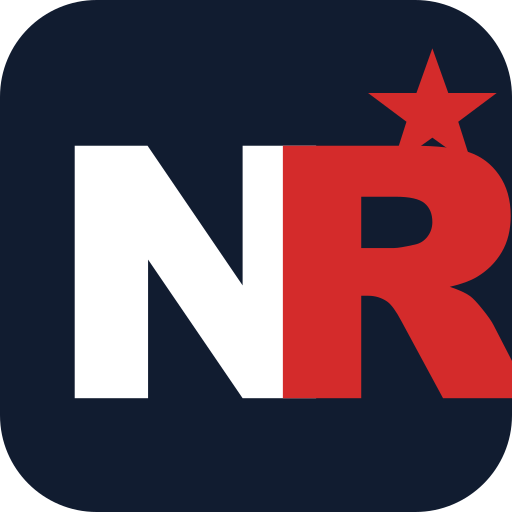
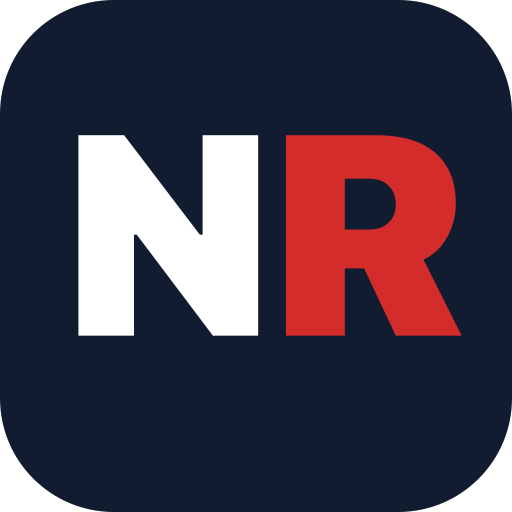
Improve mobile branding and add time-range analytics
- Replace gradient "NewsRoom" text with NR monogram on mobile dashboard
- Fix off-center app icon with proper centering and Apple-style design
- Add /api/analytics/top-articles endpoint with time-range filtering
- Update analytics page to show trailing 12h traffic by default
- Add 12H/Day/Week/Month time selector

diff --git a/src/app/analytics/page.tsx b/src/app/analytics/page.tsx
@@ -37,7 +37,7 @@ interface OverviewStats {
 export default function AnalyticsPage() {
   const { data: session } = useSession();
   const router = useRouter();
-  const [dateRange, setDateRange] = useState<'7d' | '30d' | '90d' | 'all'>('30d');
+  const [period, setPeriod] = useState<'12h' | '24h' | '7d' | '30d'>('12h');
   const [articles, setArticles] = useState<ArticleStats[]>([]);
   const [overview, setOverview] = useState<OverviewStats | null>(null);
   const [isLoading, setIsLoading] = useState(true);
@@ -48,38 +48,42 @@ export default function AnalyticsPage() {
     const fetchData = async () => {
       setIsLoading(true);
       try {
-        // Fetch published articles
-        const res = await fetch('/api/articles?status=PUBLISHED&limit=100&sortBy=pageviews');
+        // Fetch top articles for the selected time period
+        const res = await fetch(`/api/analytics/top-articles?period=${period}`);
         const data = await res.json();
-        const publishedArticles = data.articles || [];
 
-        // Calculate overview stats
+        const topArticles = data.articles || [];
+
+        // Set overview stats from the API response
         const stats: OverviewStats = {
-          totalArticles: publishedArticles.length,
-          totalPageviews: publishedArticles.reduce((sum: number, a: ArticleStats) => sum + (a.totalPageviews || 0), 0),
-          totalVisitors: publishedArticles.reduce((sum: number, a: ArticleStats) => sum + (a.totalUniqueVisitors || 0), 0),
-          avgPageviewsPerArticle: 0,
+          totalArticles: data.overview?.articlesWithTraffic || 0,
+          totalPageviews: data.overview?.totalPageviews || 0,
+          totalVisitors: data.overview?.totalVisitors || 0,
+          avgPageviewsPerArticle: data.overview?.articlesWithTraffic > 0
+            ? Math.round(data.overview.totalPageviews / data.overview.articlesWithTraffic)
+            : 0,
         };
-        stats.avgPageviewsPerArticle = stats.totalArticles > 0
-          ? Math.round(stats.totalPageviews / stats.totalArticles)
-          : 0;
-
         setOverview(stats);
 
-        // Fetch sparkline data
-        const ids = publishedArticles.slice(0, 20).map((a: ArticleStats) => a.id).join(',');
+        // Fetch sparkline data for top articles
+        const ids = topArticles.slice(0, 20).map((a: { id: string }) => a.id).join(',');
         if (ids) {
           const sparkRes = await fetch(`/api/analytics/daily-stats?ids=${ids}`);
           const sparkData = await sparkRes.json();
 
-          const articlesWithSparklines = publishedArticles.map((a: ArticleStats) => ({
+          const articlesWithSparklines = topArticles.map((a: ArticleStats & { recentPageviews?: number }) => ({
             ...a,
+            // Use recentPageviews for the selected period
+            totalPageviews: a.recentPageviews ?? a.totalPageviews,
             sparkline: sparkData.stats?.[a.id] || [],
           }));
 
           setArticles(articlesWithSparklines);
         } else {
-          setArticles(publishedArticles);
+          setArticles(topArticles.map((a: ArticleStats & { recentPageviews?: number }) => ({
+            ...a,
+            totalPageviews: a.recentPageviews ?? a.totalPageviews,
+          })));
         }
       } catch (error) {
         console.error('Failed to fetch analytics:', error);
@@ -89,7 +93,7 @@ export default function AnalyticsPage() {
     };
 
     fetchData();
-  }, [dateRange, session]);
+  }, [period, session]);
 
   if (!session) return null;
 
@@ -107,17 +111,22 @@ export default function AnalyticsPage() {
             </p>
           </div>
           <div className="flex items-center gap-2 bg-white dark:bg-ink-800 rounded-lg border border-ink-200 dark:border-ink-700 p-1">
-            {(['7d', '30d', '90d', 'all'] as const).map((range) => (
+            {([
+              { value: '12h', label: '12H' },
+              { value: '24h', label: 'Day' },
+              { value: '7d', label: 'Week' },
+              { value: '30d', label: 'Month' },
+            ] as const).map((option) => (
               <button
-                key={range}
-                onClick={() => setDateRange(range)}
+                key={option.value}
+                onClick={() => setPeriod(option.value)}
                 className={`px-3 py-1.5 text-sm font-medium rounded-md transition-colors ${
-                  dateRange === range
+                  period === option.value
                     ? 'bg-ink-900 dark:bg-ink-700 text-white'
                     : 'text-ink-500 hover:text-ink-700 dark:hover:text-ink-300'
                 }`}
               >
-                {range === 'all' ? 'All Time' : range.toUpperCase()}
+                {option.label}
               </button>
             ))}
           </div>
@@ -165,6 +174,9 @@ export default function AnalyticsPage() {
                     <h2 className="font-display font-semibold text-ink-900 dark:text-white">
                       Top Performing Articles
                     </h2>
+                    <p className="text-xs text-ink-400 mt-0.5">
+                      Ranked by pageviews in the last {period === '12h' ? '12 hours' : period === '24h' ? '24 hours' : period === '7d' ? '7 days' : '30 days'}
+                    </p>
                   </div>
                   <div className="divide-y divide-ink-100 dark:divide-ink-800">
                     {articles.slice(0, 10).map((article, index) => (

diff --git a/src/app/api/analytics/top-articles/route.ts b/src/app/api/analytics/top-articles/route.ts
@@ -1,0 +1,143 @@
+import { NextRequest, NextResponse } from 'next/server';
+import { getServerSession } from 'next-auth';
+import { authOptions } from '@/lib/auth';
+import prisma from '@/lib/prisma';
+import { getArticleAnalyticsForTimeRange } from '@/lib/umami';
+
+// Valid periods and their hours
+const PERIOD_HOURS: Record<string, number> = {
+  '12h': 12,
+  '24h': 24,
+  '7d': 24 * 7,
+  '30d': 24 * 30,
+};
+
+// In-memory cache for expensive Umami queries
+const cache: Record<string, { timestamp: number; data: unknown }> = {};
+const CACHE_TTL = 10 * 60 * 1000; // 10 minutes
+
+export async function GET(request: NextRequest) {
+  const session = await getServerSession(authOptions);
+  if (!session) {
+    return NextResponse.json({ error: 'Unauthorized' }, { status: 401 });
+  }
+
+  const { searchParams } = new URL(request.url);
+  const period = searchParams.get('period') || '12h';
+  const hours = PERIOD_HOURS[period] || 12;
+
+  // Check cache
+  const cacheKey = `top-articles-${period}`;
+  const cached = cache[cacheKey];
+  if (cached && Date.now() - cached.timestamp < CACHE_TTL) {
+    return NextResponse.json(cached.data);
+  }
+
+  try {
+    // Fetch published articles with URLs
+    const publishedArticles = await prisma.article.findMany({
+      where: {
+        status: 'PUBLISHED',
+        publishedUrl: { not: null },
+      },
+      select: {
+        id: true,
+        headline: true,
+        slug: true,
+        publishedUrl: true,
+        publishedAt: true,
+        totalPageviews: true,
+        totalUniqueVisitors: true,
+        author: {
+          select: { name: true },
+        },
+      },
+      orderBy: { publishedAt: 'desc' },
+      take: 50,
+    });
+
+    // Fetch analytics for time range in parallel batches
+    const BATCH_SIZE = 5;
+    const articlesWithStats: Array<{
+      id: string;
+      headline: string;
+      slug: string | null;
+      publishedAt: Date | null;
+      publishedUrl: string | null;
+      recentPageviews: number;
+      recentUniqueVisitors: number;
+      totalPageviews: number;
+      totalUniqueVisitors: number;
+      author: { name: string } | null;
+    }> = [];
+
+    for (let i = 0; i < publishedArticles.length; i += BATCH_SIZE) {
+      const batch = publishedArticles.slice(i, i + BATCH_SIZE);
+
+      const batchResults = await Promise.all(
+        batch.map(async (article) => {
+          try {
+            const urls = article.publishedUrl!.split(' | ').map(url => url.trim());
+            const recentStats = await getArticleAnalyticsForTimeRange(urls, hours);
+
+            return {
+              id: article.id,
+              headline: article.headline,
+              slug: article.slug,
+              publishedAt: article.publishedAt,
+              publishedUrl: article.publishedUrl,
+              recentPageviews: recentStats.totalPageviews,
+              recentUniqueVisitors: recentStats.totalUniqueVisitors,
+              totalPageviews: article.totalPageviews,
+              totalUniqueVisitors: article.totalUniqueVisitors,
+              author: article.author,
+            };
+          } catch (error) {
+            console.error(`Failed to fetch stats for ${article.id}:`, error);
+            return {
+              id: article.id,
+              headline: article.headline,
+              slug: article.slug,
+              publishedAt: article.publishedAt,
+              publishedUrl: article.publishedUrl,
+              recentPageviews: 0,
+              recentUniqueVisitors: 0,
+              totalPageviews: article.totalPageviews,
+              totalUniqueVisitors: article.totalUniqueVisitors,
+              author: article.author,
+            };
+          }
+        })
+      );
+
+      articlesWithStats.push(...batchResults);
+    }
+
+    // Sort by recent pageviews
+    articlesWithStats.sort((a, b) => b.recentPageviews - a.recentPageviews);
+
+    // Calculate overview stats for the period
+    const overview = {
+      totalPageviews: articlesWithStats.reduce((sum, a) => sum + a.recentPageviews, 0),
+      totalVisitors: articlesWithStats.reduce((sum, a) => sum + a.recentUniqueVisitors, 0),
+      articlesWithTraffic: articlesWithStats.filter(a => a.recentPageviews > 0).length,
+    };
+
+    const response = {
+      articles: articlesWithStats,
+      overview,
+      period,
+    };
+
+    // Cache the response
+    cache[cacheKey] = { timestamp: Date.now(), data: response };
+
+    return NextResponse.json(response);
+  } catch (error) {
+    console.error('Top articles API error:', error);
+    return NextResponse.json(
+      { error: 'Failed to fetch top articles' },
+      { status: 500 }
+    );
+  }
+}

diff --git a/src/app/dashboard/page.tsx b/src/app/dashboard/page.tsx
@@ -349,11 +349,14 @@ export default function DashboardPage() {
               <div className="px-4 pt-3 pb-4">
                 <div className="flex items-center justify-between mb-4">
                   <div>
-                    <h1 className="text-2xl font-bold bg-gradient-to-r from-white via-white to-press-400 bg-clip-text text-transparent">
-                      NewsRoom
-                    </h1>
-                    <p className="text-xs text-white/60 mt-0.5 flex items-center gap-1">
-                      <HiOutlineSparkles className="w-3 h-3" />
+                    <div className="flex items-start gap-0">
+                      <span className="font-black text-[32px] leading-none tracking-[-2px] text-white">N</span>
+                      <span className="font-black text-[32px] leading-none tracking-[-2px] text-press-500">R</span>
+                      <svg width="12" height="12" viewBox="0 0 20 20" fill="none" className="ml-0.5 mt-0.5">
+                        <path d="M10 0l2.5 6.9H20l-6 4.6 2.3 7L10 13.8l-6.3 4.7 2.3-7-6-4.6h7.5z" fill="#D42B2B"/>
+                      </svg>
+                    </div>
+                    <p className="text-xs text-white/60 mt-0.5">
                       {session?.user?.name || 'User'}
                     </p>
                   </div>
